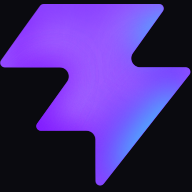
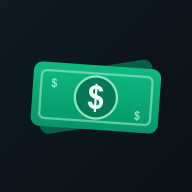
nitificaciones ajustes y otras cosillas

diff --git a/src/components/EmojiPicker.tsx b/src/components/EmojiPicker.tsx
@@ -1,0 +1,40 @@
+// Selector de ícono por tap (reemplaza el input de texto libre que en iPhone
+// se sentía roto: tocaba escribir el emoji con el teclado).
+const DEFAULT_EMOJIS = [
+  '🛒', '🍔', '☕', '🍕', '⛽', '🚌', '🚗', '🏍️',
+  '🏠', '💡', '📺', '📱', '💊', '🏥', '🦷', '💅',
+  '🎮', '🎬', '🎵', '⚽', '👕', '👟', '🎁', '🌹',
+  '🎓', '📚', '✈️', '🏖️', '🐶', '🐱', '🔧', '🧾',
+  '💼', '💰', '🎉', '🐷', '🎯', '🛟', '💍', '👶',
+  '🏦', '💳', '💵', '👛', '🪙', '📈', '🚀', '📦',
+]
+
+export default function EmojiPicker({
+  value,
+  onChange,
+}: {
+  value: string
+  onChange: (icon: string) => void
+}) {
+  const list = DEFAULT_EMOJIS.includes(value) ? DEFAULT_EMOJIS : [value, ...DEFAULT_EMOJIS]
+  return (
+    <div className="flex flex-col gap-1 text-xs font-medium text-zinc-500 dark:text-zinc-400">
+      Ícono
+      <div className="grid max-h-36 grid-cols-8 gap-1 overflow-y-auto rounded-xl bg-zinc-100 p-2 dark:bg-card-hover">
+        {list.map((e) => (
+          <button
+            key={e}
+            type="button"
+            aria-label={`Ícono ${e}`}
+            onClick={() => onChange(e)}
+            className={`flex size-9 items-center justify-center rounded-lg text-lg transition active:scale-90 ${
+              value === e ? 'bg-emerald-500/25 ring-2 ring-emerald-500' : ''
+            }`}
+          >
+            {e}
+          </button>
+        ))}
+      </div>
+    </div>
+  )
+}

diff --git a/src/pages/CategoriesPage.tsx b/src/pages/CategoriesPage.tsx
@@ -5,6 +5,7 @@ import { ArrowDown, ArrowLeft, ArrowUp, Plus, Star } from 'lucide-react'
 import { useAuth } from '../auth/AuthProvider'
 import { supabase } from '../lib/supabase'
 import { useCategories } from '../hooks/useCategories'
+import EmojiPicker from '../components/EmojiPicker'
 import type { Category, CategoryType } from '../types'
 
 interface CategoryForm {
@@ -293,27 +294,18 @@ function CategoryFormSheet({
             </div>
           )}
 
-          <div className="flex gap-3">
-            <label className="flex w-24 flex-col gap-1 text-xs font-medium text-zinc-500 dark:text-zinc-400">
-              Ícono
-              <input
-                type="text"
-                value={icon}
-                onChange={(e) => setIcon(e.target.value)}
-                className="rounded-xl bg-zinc-100 px-3 py-2.5 text-center text-lg outline-none dark:bg-card-hover"
-              />
-            </label>
-            <label className="flex flex-1 flex-col gap-1 text-xs font-medium text-zinc-500 dark:text-zinc-400">
-              Nombre
-              <input
-                type="text"
-                value={name}
-                onChange={(e) => setName(e.target.value)}
-                placeholder="Mascotas"
-                className="rounded-xl bg-zinc-100 px-3 py-2.5 text-sm text-zinc-900 outline-none dark:bg-card-hover dark:text-zinc-100"
-              />
-            </label>
-          </div>
+          <label className="flex flex-col gap-1 text-xs font-medium text-zinc-500 dark:text-zinc-400">
+            Nombre
+            <input
+              type="text"
+              value={name}
+              onChange={(e) => setName(e.target.value)}
+              placeholder="Mascotas"
+              className="rounded-xl bg-zinc-100 px-3 py-2.5 text-sm text-zinc-900 outline-none dark:bg-card-hover dark:text-zinc-100"
+            />
+          </label>
+
+          <EmojiPicker value={icon} onChange={setIcon} />
 
           <label className="flex flex-col gap-1 text-xs font-medium text-zinc-500 dark:text-zinc-400">
             Color

diff --git a/src/pages/GoalsPage.tsx b/src/pages/GoalsPage.tsx
@@ -7,6 +7,7 @@ import { useAuth } from '../auth/AuthProvider'
 import { supabase } from '../lib/supabase'
 import { formatCOP, parseAmountInput } from '../lib/format'
 import AmountDateSheet from '../components/AmountDateSheet'
+import EmojiPicker from '../components/EmojiPicker'
 import type { Goal } from '../types'
 
 interface GoalForm {
@@ -162,27 +163,18 @@ function GoalFormSheet({
         <h2 className="text-base font-bold">{goal ? 'Editar meta' : 'Nueva meta'}</h2>
 
         <div className="mt-4 flex flex-col gap-3">
-          <div className="flex gap-3">
-            <label className="flex w-24 flex-col gap-1 text-xs font-medium text-zinc-500 dark:text-zinc-400">
-              Ícono
-              <input
-                type="text"
-                value={icon}
-                onChange={(e) => setIcon(e.target.value)}
-                className="rounded-xl bg-zinc-100 px-3 py-2.5 text-center text-lg outline-none dark:bg-card-hover"
-              />
-            </label>
-            <label className="flex flex-1 flex-col gap-1 text-xs font-medium text-zinc-500 dark:text-zinc-400">
-              Nombre
-              <input
-                type="text"
-                value={name}
-                onChange={(e) => setName(e.target.value)}
-                placeholder="Fondo de emergencia"
-                className="rounded-xl bg-zinc-100 px-3 py-2.5 text-sm text-zinc-900 outline-none dark:bg-card-hover dark:text-zinc-100"
-              />
-            </label>
-          </div>
+          <label className="flex flex-col gap-1 text-xs font-medium text-zinc-500 dark:text-zinc-400">
+            Nombre
+            <input
+              type="text"
+              value={name}
+              onChange={(e) => setName(e.target.value)}
+              placeholder="Fondo de emergencia"
+              className="rounded-xl bg-zinc-100 px-3 py-2.5 text-sm text-zinc-900 outline-none dark:bg-card-hover dark:text-zinc-100"
+            />
+          </label>
+
+          <EmojiPicker value={icon} onChange={setIcon} />
 
           <label className="flex flex-col gap-1 text-xs font-medium text-zinc-500 dark:text-zinc-400">
             Monto objetivo

diff --git a/src/pages/AccountsPage.tsx b/src/pages/AccountsPage.tsx
@@ -9,6 +9,7 @@ import { formatCOP, parseAmountInput } from '../lib/format'
 import { saveTransfer } from '../lib/transfers'
 import { accountBalance, useAccountActivity, useAccounts, type AccountActivity } from '../hooks/useAccounts'
 import { useDebts } from '../hooks/useDebts'
+import EmojiPicker from '../components/EmojiPicker'
 import type { Account, AccountType } from '../types'
 
 const TYPE_LABEL: Record<AccountType, string> = {
@@ -370,26 +371,17 @@ function AccountFormSheet({
             </label>
           )}
 
-          <div className="flex gap-3">
-            <label className="flex w-24 flex-col gap-1 text-xs font-medium text-zinc-500 dark:text-zinc-400">
-              Ícono
-              <input
-                type="text"
-                value={icon}
-                onChange={(e) => setIcon(e.target.value)}
-                className="rounded-xl bg-zinc-100 px-3 py-2.5 text-center text-lg outline-none dark:bg-card-hover"
-              />
-            </label>
-            <label className="flex flex-1 flex-col gap-1 text-xs font-medium text-zinc-500 dark:text-zinc-400">
-              Color
-              <input
-                type="color"
-                value={color}
-                onChange={(e) => setColor(e.target.value)}
-                className="h-11 w-full rounded-xl bg-zinc-100 px-1 dark:bg-card-hover"
-              />
-            </label>
-          </div>
+          <EmojiPicker value={icon} onChange={setIcon} />
+
+          <label className="flex flex-col gap-1 text-xs font-medium text-zinc-500 dark:text-zinc-400">
+            Color
+            <input
+              type="color"
+              value={color}
+              onChange={(e) => setColor(e.target.value)}
+              className="h-11 w-full rounded-xl bg-zinc-100 px-1 dark:bg-card-hover"
+            />
+          </label>
 
           {type !== 'tarjeta_credito' && (
             <label className="flex flex-col gap-1 text-xs font-medium text-zinc-500 dark:text-zinc-400">

diff --git a/supabase/functions/payment-reminders/index.ts b/supabase/functions/payment-reminders/index.ts
@@ -8,6 +8,7 @@ import webpush from 'npm:web-push@3'
 
 interface RecurringPayment {
   id: string
+  user_id: string
   name: string
   amount: number | null
   due_day: number | null
@@ -19,6 +20,16 @@ interface RecurringPayment {
 function formatCOP(amount: number): string {
   return `$${amount.toLocaleString('es-CO')}`
 }
+
+// Títulos rotativos pa' que el recordatorio llegue con sabor
+const TITLES = [
+  '🦈 Pilas pues, tiburón',
+  '💵 La Caleta te avisa',
+  '🔥 ¡Que no se le pase, papacho!',
+  '👑 El que paga a tiempo manda',
+  '💸 Las lucas no se cuidan solas',
+  '🚀 Rumbo a deuda cero, mi líder',
+]
 
 /** ¿El pago vence en la fecha dada? (misma convención que el cliente) */
 function dueOn(p: RecurringPayment, date: Date): boolean {
@@ -55,7 +66,7 @@ Deno.serve(async (req) => {
 
   const { data: payments, error } = await supabase
     .from('recurring_payments')
-    .select('id, name, amount, due_day, due_date, frequency, active')
+    .select('id, user_id, name, amount, due_day, due_date, frequency, active')
     .eq('active', true)
   if (error) return new Response(error.message, { status: 500 })
 
@@ -64,14 +75,17 @@ Deno.serve(async (req) => {
   const today = new Date(now.getFullYear(), now.getMonth(), now.getDate())
   const tomorrow = new Date(today.getFullYear(), today.getMonth(), today.getDate() + 1)
 
-  const messages: string[] = []
+  // Mensajes agrupados por usuario: cada quien recibe solo SUS pagos
+  const byUser = new Map<string, string[]>()
   for (const p of (payments ?? []) as RecurringPayment[]) {
     const monto = p.amount ? ` — ${formatCOP(p.amount)}` : ''
-    if (dueOn(p, today)) messages.push(`Hoy vence: ${p.name}${monto}`)
-    else if (dueOn(p, tomorrow)) messages.push(`Mañana vence: ${p.name}${monto}`)
+    let msg: string | null = null
+    if (dueOn(p, today)) msg = `Hoy vence: ${p.name}${monto}`
+    else if (dueOn(p, tomorrow)) msg = `Mañana vence: ${p.name}${monto}`
+    if (msg) byUser.set(p.user_id, [...(byUser.get(p.user_id) ?? []), msg])
   }
 
-  if (messages.length === 0) {
+  if (byUser.size === 0) {
     return new Response(JSON.stringify({ sent: 0 }), {
       headers: { 'Content-Type': 'application/json' },
     })
@@ -79,15 +93,17 @@ Deno.serve(async (req) => {
 
   const { data: subs } = await supabase
     .from('push_subscriptions')
-    .select('id, endpoint, p256dh, auth')
+    .select('id, user_id, endpoint, p256dh, auth')
 
   let sent = 0
   for (const sub of subs ?? []) {
+    const messages = byUser.get(sub.user_id)
+    if (!messages?.length) continue
     try {
       await webpush.sendNotification(
         { endpoint: sub.endpoint, keys: { p256dh: sub.p256dh, auth: sub.auth } },
         JSON.stringify({
-          title: 'Panorama — pagos próximos',
+          title: TITLES[Math.floor(Math.random() * TITLES.length)],
           body: messages.join('\n'),
         }),
       )
@@ -101,7 +117,7 @@ Deno.serve(async (req) => {
     }
   }
 
-  return new Response(JSON.stringify({ sent, messages }), {
+  return new Response(JSON.stringify({ sent }), {
     headers: { 'Content-Type': 'application/json' },
   })
 })

diff --git a/src/lib/ics.ts b/src/lib/ics.ts
@@ -29,9 +29,9 @@ export function buildIcs(payments: RecurringPayment[]): string {
   const lines: string[] = [
     'BEGIN:VCALENDAR',
     'VERSION:2.0',
-    'PRODID:-//Panorama//Pagos//ES',
+    'PRODID:-//La Caleta//Pagos//ES',
     'CALSCALE:GREGORIAN',
-    'X-WR-CALNAME:Pagos Panorama',
+    'X-WR-CALNAME:Pagos La Caleta',
   ]
 
   for (const p of payments) {
@@ -90,7 +90,7 @@ export function downloadIcs(content: string) {
   const url = URL.createObjectURL(blob)
   const a = document.createElement('a')
   a.href = url
-  a.download = 'panorama-pagos.ics'
+  a.download = 'la-caleta-pagos.ics'
   a.click()
   URL.revokeObjectURL(url)
 }

diff --git a/index.html b/index.html
@@ -10,9 +10,9 @@
     <meta name="theme-color" content="#0b1014" />
     <meta name="apple-mobile-web-app-capable" content="yes" />
     <meta name="apple-mobile-web-app-status-bar-style" content="black-translucent" />
-    <meta name="apple-mobile-web-app-title" content="Panorama" />
+    <meta name="apple-mobile-web-app-title" content="La Caleta" />
     <link rel="apple-touch-icon" href="/apple-touch-icon.png" />
-    <title>Panorama</title>
+    <title>La Caleta</title>
   </head>
   <body>
     <div id="root"></div>

diff --git a/vite.config.ts b/vite.config.ts
@@ -11,8 +11,8 @@ export default defineConfig({
       registerType: 'autoUpdate',
       includeAssets: ['apple-touch-icon.png'],
       manifest: {
-        name: 'Panorama',
-        short_name: 'Panorama',
+        name: 'La Caleta',
+        short_name: 'La Caleta',
         description: 'Finanzas personales',
         lang: 'es',
         display: 'standalone',

diff --git a/src/auth/LoginPage.tsx b/src/auth/LoginPage.tsx
@@ -25,7 +25,7 @@ export default function LoginPage() {
           <div className="flex size-16 items-center justify-center rounded-2xl bg-emerald-500/15">
             <Wallet className="size-8 text-emerald-400" />
           </div>
-          <h1 className="text-2xl font-bold">Panorama</h1>
+          <h1 className="text-2xl font-bold">La Caleta</h1>
           <p className="text-sm text-zinc-500 dark:text-zinc-400">Rumbo a deuda cero.</p>
         </div>
 

diff --git a/src/pages/ReportsPage.tsx b/src/pages/ReportsPage.tsx
@@ -100,7 +100,7 @@ export default function ReportsPage() {
           t.note ?? '',
         ]),
       ]
-      downloadCsv(buildCsv(rows), `panorama-movimientos-${format(new Date(), 'yyyy-MM-dd')}.csv`)
+      downloadCsv(buildCsv(rows), `la-caleta-movimientos-${format(new Date(), 'yyyy-MM-dd')}.csv`)
     } finally {
       setExporting(false)
     }